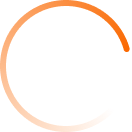
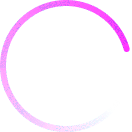
Updating Lunexa GUI

Changed region(s): [[0.0, 0.0, 1.0, 1.0]]

diff --git a/components/Style.qml b/components/Style.qml
@@ -84,17 +84,17 @@ QtObject {
     property var accountColors: blackTheme ? _b_accountColors : _w_accountColors
 
     property string _b_defaultFontColor: "white"
-    property string _b_dimmedFontColor: "#BBBBBB"
+    property string _b_dimmedFontColor: "#AF9BCC"
     property string _b_lightGreyFontColor: "#DFDFDF"
     property string _b_errorColor: "#DBC1FF"
-    property string _b_textSelectionColor: "#BBBBBB"
+    property string _b_textSelectionColor: "#AF9BCC"
     property string _b_textSelectedColor: "white"
 
     property string _b_inputBoxBackground: "black"
     property string _b_inputBoxBackgroundDisabled: Qt.rgba(255, 255, 255, 0.10)
     property string _b_inputBoxBackgroundError: "#E7D6FF"
     property string _b_inputBoxColor: "white"
-    property string _b_legacy_placeholderFontColor: "#BABABA"
+    property string _b_legacy_placeholderFontColor: "#AF9BCC"
     property string _b_inputBorderColorActive: Qt.rgba(255, 255, 255, 0.38)
     property string _b_inputBorderColorInActive: Qt.rgba(255, 255, 255, 0.32)
     property string _b_inputBorderColorInvalid: Qt.rgba(255, 0, 0, 0.40)
@@ -115,7 +115,7 @@ QtObject {
 
     property string _b_titleBarBackgroundGradientStart: "#262626";
     property string _b_titleBarBackgroundGradientStop: "#191919"
-    property string _b_titleBarBackgroundBorderColor: "#2f2f2f"
+    property string _b_titleBarBackgroundBorderColor: "#303030"
     property string _b_titleBarLogoSource: "qrc:///images/titlebarLogo.png"
     property string _b_titleBarMinimizeSource: "qrc:///images/minimize.svg"
     property string _b_titleBarFullscreenSource: "qrc:///images/fullscreen.svg"
@@ -139,11 +139,11 @@ QtObject {
     property string _b_appWindowBackgroundColor: "white"
     property string _b_appWindowBorderColor: "#313131"
     property bool _b_progressBarProgressTextBold: true
-    property string _b_progressBarBackgroundColor: "#24FFFFFF"
+    property string _b_progressBarBackgroundColor: "#AF9BCC"
     property string _b_leftPanelBackgroundGradientStart: "#222222"
     property string _b_leftPanelBackgroundGradientStop: "#1a1a1a"
-    property string _b_historyHeaderTextColor: "#C0C0C0"
-    property var _b_accountColors: ["#6E513C", "#842129", "#458421", "#742184", "#291DBE", "#846F21", "#217F84", "#696969"]
+    property string _b_historyHeaderTextColor: "#AF9BCC"
+    property var _b_accountColors: ["#685D7A", "#842129", "#458421", "#742184", "#291DBE", "#846F21", "#217F84", "#696969"]
 
     property string _w_defaultFontColor: "black"
     property string _w_dimmedFontColor: "#3f3f3f"
@@ -205,5 +205,5 @@ QtObject {
     property string _w_leftPanelBackgroundGradientStart: "white"
     property string _w_leftPanelBackgroundGradientStop: "#f5f5f5"
     property string _w_historyHeaderTextColor: "#515151"
-    property var _w_accountColors: ["#6E513C", "#6E513C", "#842129", "#458421", "#742184", "#291DBE", "#846F21", "#217F84", "#696969"]
+    property var _w_accountColors: ["#685D7A", "#685D7A", "#842129", "#458421", "#742184", "#291DBE", "#846F21", "#217F84", "#696969"]
 }

diff --git a/pages/Transfer.qml b/pages/Transfer.qml
@@ -79,7 +79,7 @@ Rectangle {
 
         return "";
     }
-    property string startLinkText: "<style type='text/css'>a {text-decoration: none; color: #FF6C3C; font-size: 14px;}</style><a href='#'>(%1)</a>".arg(qsTr("Start daemon")) + translationManager.emptyString
+    property string startLinkText: "<style type='text/css'>a {text-decoration: none; color: #DBC1FF; font-size: 14px;}</style><a href='#'>(%1)</a>".arg(qsTr("Start daemon")) + translationManager.emptyString
     property bool warningLongPidDescription: descriptionLine.text.match(/^[0-9a-f]{64}$/i)
 
     Clipboard { id: clipboard }
@@ -892,7 +892,7 @@ Rectangle {
             tooltip: {
                 var header = qsTr("Required for cold wallets to sign their corresponding key images") + translationManager.emptyString;
                 return "<style type='text/css'>.header{ font-size: 13px; } p{line-height:20px; margin-top:0px; margin-bottom:0px; " +
-                       ";} p.purple{color:#ff9323;}</style>" +
+                       ";} p.purple{color:#ae9bcc;}</style>" +
                        "<div class='header'>" + header + "</div>" +
                        "<p>" + qsTr("1. Using view-only wallet, export the outputs into a file") + "</p>" +
                        "<p>" + qsTr("2. Using cold wallet, import the outputs file") + "</p>" +
@@ -922,7 +922,7 @@ Rectangle {
                 }
                 var header = qsTr("Required for view-only wallets to display the real balance") + translationManager.emptyString;
                 return "<style type='text/css'>.header{ font-size: 13px; } p{line-height:20px; margin-top:0px; margin-bottom:0px; " +
-                       ";} p.purple{color:#ff9323;}</style>" +
+                       ";} p.purple{color:#ae9bcc;}</style>" +
                        "<div class='header'>" + header + "</div>" +
                        "<p>" + qsTr("1. Using cold wallet, export the key images into a file") + "</p>" +
                        "<p>" + qsTr("2. Using view-only wallet, import the key images file") + "</p>" +
@@ -961,7 +961,7 @@ Rectangle {
                 }
                 var header = qsTr("Spend LXA from a cold (offline) wallet") + translationManager.emptyString;
                 return "<style type='text/css'>.header{ font-size: 13px; } p{line-height:20px; margin-top:0px; margin-bottom:0px; " +
-                       ";} p.purple{color:#ff9323;}</style>" +
+                       ";} p.purple{color:#ae9bcc;}</style>" +
                        "<div class='header'>" + header + "</div>" +
                        "<p>" + qsTr("1. Using view-only wallet, export the outputs into a file") + "</p>" +
                        "<p>" + qsTr("2. Using cold wallet, import the outputs file and export the key images") + "</p>" +

diff --git a/pages/settings/SettingsInfo.qml b/pages/settings/SettingsInfo.qml
@@ -140,7 +140,7 @@ Rectangle {
                 property string walletPath: (isIOS ?  appWindow.accountsDir : "") + persistentSettings.wallet_path
                 text: "\
                     <style type='text/css'>\
-                        a {cursor:pointer;text-decoration: none; color: #FF6C3C}\
+                        a {cursor:pointer;text-decoration: none; color: #DBC1FF}\
                     </style>\
                     <a href='#'>%1</a>".arg(walletPath)
                 textFormat: Text.RichText
@@ -184,7 +184,7 @@ Rectangle {
                 textFormat: Text.RichText
                 color: LunexaComponents.Style.dimmedFontColor
                 font.pixelSize: 14
-                property var style: "<style type='text/css'>a {cursor:pointer;text-decoration: none; color: #FF6C3C}</style>"
+                property var style: "<style type='text/css'>a {cursor:pointer;text-decoration: none; color: #DBC1FF}</style>"
                 text: (currentWallet ? currentWallet.walletCreationHeight : "") + style + " <a href='#'> (%1)</a>".arg(qsTr("Change")) + translationManager.emptyString
                 onLinkActivated: {
                     inputDialog.labelText = qsTr("Set a new restore height.\nYou can enter a block height or a date (YYYY-MM-DD):") + translationManager.emptyString;
@@ -266,7 +266,7 @@ Rectangle {
                 font.pixelSize: 14
                 text: "\
                     <style type='text/css'>\
-                        a {cursor:pointer;text-decoration: none; color: #FF6C3C}\
+                        a {cursor:pointer;text-decoration: none; color: #DBC1FF}\
                     </style>\
                     <a href='#'>%1</a>".arg(logger.logFilePath)
                 textFormat: Text.RichText

diff --git a/LeftPanel.qml b/LeftPanel.qml
@@ -75,7 +75,7 @@ Rectangle {
         menuColumn.previousButton.checked = true
     }
 
-    width: 300
+    width: 350
     color: "transparent"
     anchors.bottom: parent.bottom
     anchors.top: parent.top
@@ -130,7 +130,7 @@ Rectangle {
                     verticalOffset: 3
                     radius: 10.0
                     samples: 15
-                    color: "#3B000000"
+                    color: "#E4D1FF"
                     source: card
                     cached: true
                 }
@@ -145,7 +145,7 @@ Rectangle {
                     anchors.leftMargin: 192
                     font.bold: true
                     font.pixelSize: 12
-                    color: "#f33434"
+                    color: "#E4D1FF"
                     themeTransition: false
                 }
 
@@ -159,7 +159,7 @@ Rectangle {
                     anchors.rightMargin: 8
                     font.pixelSize: 12
                     font.bold: true
-                    color: "#ff9323"
+                    color: "#E4D1FF"
                     themeTransition: false
                 }
             }

diff --git a/pages/settings/SettingsNode.qml b/pages/settings/SettingsNode.qml
@@ -287,7 +287,7 @@ Rectangle{
                     Layout.fillWidth: true
                     fontSize: 15
                     labelFontSize: 14
-                    property string style: "<style type='text/css'>a {cursor:pointer;text-decoration: none; color: #FF6C3C}</style>"
+                    property string style: "<style type='text/css'>a {cursor:pointer;text-decoration: none; color: #DBC1FF}</style>"
                     labelText: qsTr("Blockchain location") + style + " <a href='#'> (%1)</a>".arg(qsTr("Change")) + translationManager.emptyString
                     labelButtonText: qsTr("Reset") + translationManager.emptyString
                     labelButtonVisible: text

diff --git a/wizard/WizardDaemonSettings.qml b/wizard/WizardDaemonSettings.qml
@@ -78,7 +78,7 @@ ColumnLayout {
             labelText: {
                 const label = qsTr("Blockchain location (optional)");
                 if (persistentSettings.blockchainDataDir) {
-                    const style = "<style type='text/css'>a {cursor:pointer;text-decoration: none; color: #FF6C3C}</style>";
+                    const style = "<style type='text/css'>a {cursor:pointer;text-decoration: none; color: #DBC1FF}</style>";
                     return label + style + "<a href='#'> (%1)</a>".arg(qsTr("Reset")) + translationManager.emptyString;
                 } else {
                     return label + translationManager.emptyString;

diff --git a/pages/merchant/Merchant.qml b/pages/merchant/Merchant.qml
@@ -265,7 +265,7 @@ Item {
                     font.pixelSize: 12
                     font.bold: false
                     color: "white"
-                    text: "<style type='text/css'>a {text-decoration: none; color: #FF6C3C; font-size: 12px;}</style>%1: %2 <a href='#'>(%3)</a>"
+                    text: "<style type='text/css'>a {text-decoration: none; color: #DBC1FF; font-size: 12px;}</style>%1: %2 <a href='#'>(%3)</a>"
                         .arg(qsTr("Currently selected address"))
                         .arg(addressLabel)
                         .arg(qsTr("Change")) + translationManager.emptyString

diff --git a/main.qml b/main.qml
@@ -59,7 +59,7 @@ ApplicationWindow {
         (persistentSettings.displayWalletNameInTitleBar && walletName
         ? " - " + walletName
         : "")
-    minimumWidth: 750
+    minimumWidth: 850
     minimumHeight: 450
 
     property var currentItem
@@ -1957,7 +1957,7 @@ ApplicationWindow {
             property alias text: content.text
             width: content.width + 12
             height: content.height + 17
-            color: "#FF6C3C"
+            color: "#E4D1FF"
             //radius: 3
             visible:false;
 

diff --git a/installers/windows/ReadMe.htm b/installers/windows/ReadMe.htm
@@ -31,7 +31,7 @@
   packages in order to start.</p>
 
   <p>For checking whether there are already newer versions of this package you can go to the
-  <a href="https://getlunexa.org/downloads/">Downloads</a> page on <a href="https://getlunexa.org/">getlunexa.org</a>,
+  <a href="https://lunexa.co/downloads/">Downloads</a> page on <a href="https://lunexa.co/">lunexa.co</a>,
   the official Lunexa site.</p>
 
 <h2>Upgrading</h2>

diff --git a/pages/History.qml b/pages/History.qml
@@ -619,7 +619,7 @@ Rectangle {
                         width: 10
                         height: 10
                         radius: 8
-                        color: isout ? "#d85a00" : "#2eb358"
+                        color: isout ? "#dbc1ff" : "#2eb358"
                     }
 
                     LunexaComponents.TextPlain {

diff --git a/components/TipItem.qml b/components/TipItem.qml
@@ -49,7 +49,7 @@ Window {
         id: rect
         width: content.width + 12
         height: content.height + 17
-        color: "#FF6C3C"
+        color: "#DBC1FF"
         //radius: 3
 
         Image {

diff --git a/components/InlineButton.qml b/components/InlineButton.qml
@@ -115,7 +115,7 @@ Item {
         verticalOffset: 2
         radius: 7.0
         samples: 10
-        color: "#1B000000"
+        color: "#4C4C4C"
         cached: true
         source: rect
     }
